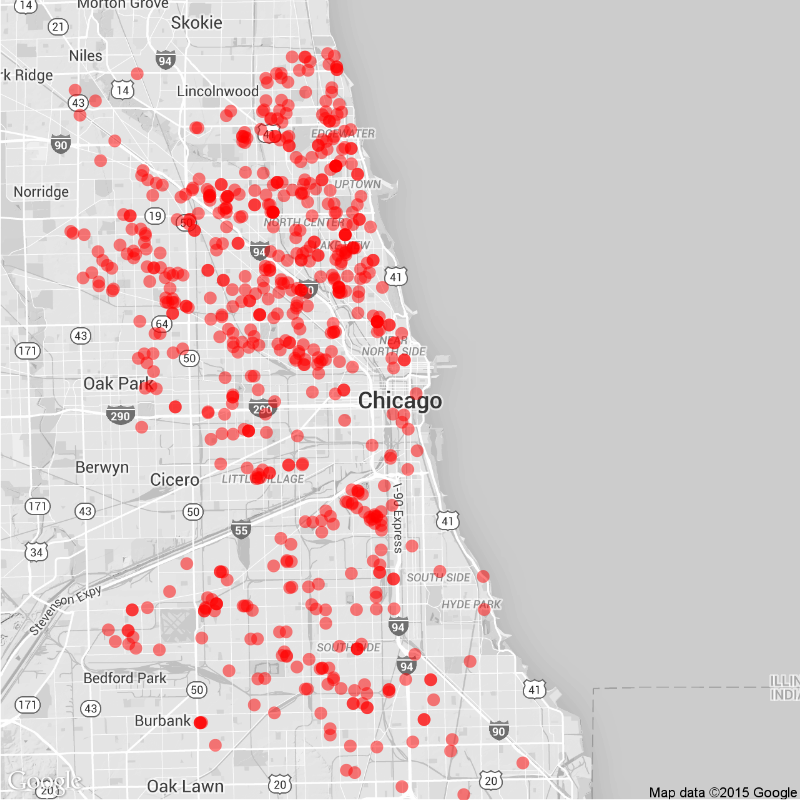
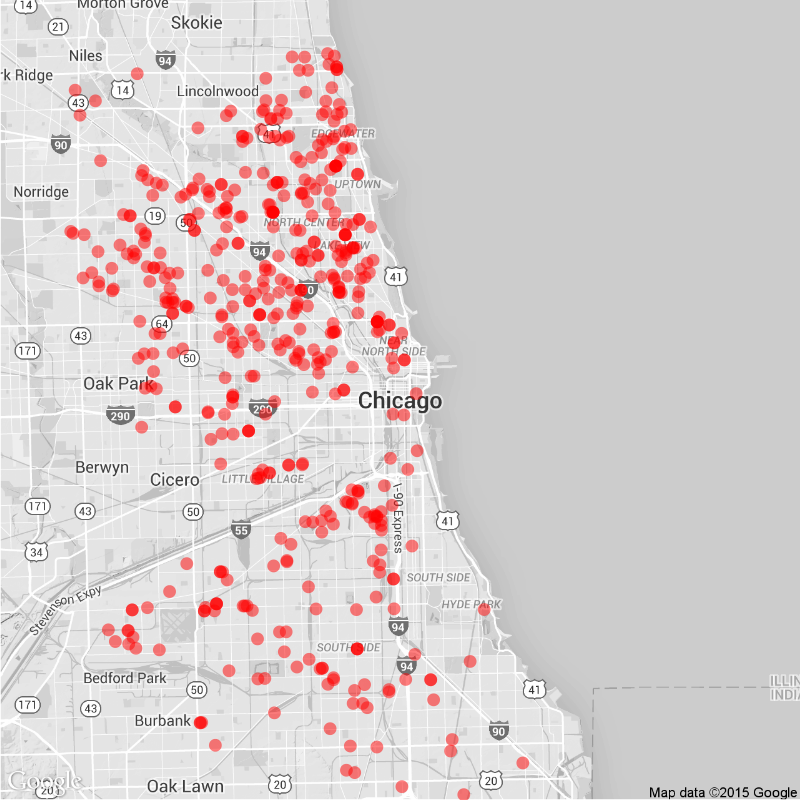
Daily Maps

diff --git a/daily.md b/daily.md
@@ -15,22 +15,22 @@ tags: Chicago NYC weekly daily rats
 
 ### Daily
 
-Yesterday (August 06), there were 0 calls to Chicago's 311 line about rats.
+Yesterday (August 07), there were 0 calls to Chicago's 311 line about rats.
 ![Chicago rat calls to 311 weekly map]({{ site.cityimages }}/daily/Chicago_Rat_Map_Daily.png)
 
 ### Weekly
-Between July 31 and August 06, there were 647 calls to Chicago's 311 line about rats. The average number of weekly calls for this time of year is 928.
+Between August 01 and August 07, there were 505 calls to Chicago's 311 line about rats. The average number of weekly calls for this time of year is 928.
 ![Chicago rat calls to 311 weekly map]({{ site.cityimages }}/daily/Chicago_Rat_Map_Weekly.png)
 ***
 # New York City <a id="nyc"><a>
 
 ### Daily
 
-Yesterday (August 06), there were 0 calls to New York City's 311 line about rats.
+Yesterday (August 07), there were 0 calls to New York City's 311 line about rats.
 ![NYC rat calls to 311 weekly map]({{ site.cityimages }}/daily/NYC_Rat_Map_Daily.png)
 
 ### Weekly
-Between July 31 and August 06, there were 0 calls to New York City's 311 line about rats. The average number of weekly calls for this time of year is 286.
+Between August 01 and August 07, there were 0 calls to New York City's 311 line about rats. The average number of weekly calls for this time of year is 286.
 ![NYC rat calls to 311 weekly map]({{ site.cityimages }}/daily/NYC_Rat_Map_Weekly.png)
 
 Each red dot represents one call about a rat seen in that location. The dots are transparent, so multiple calls from one location will be seen as a solid dot. The usual caveats apply: more calls do not necessarily mean that there are more rats in that location than other parts of the city. A cluster of dots could indicate that one resident is unusually vocal about rodents in his or her neighborhood. Also, more densely populated neighborhoods tend to make more calls to 311.
